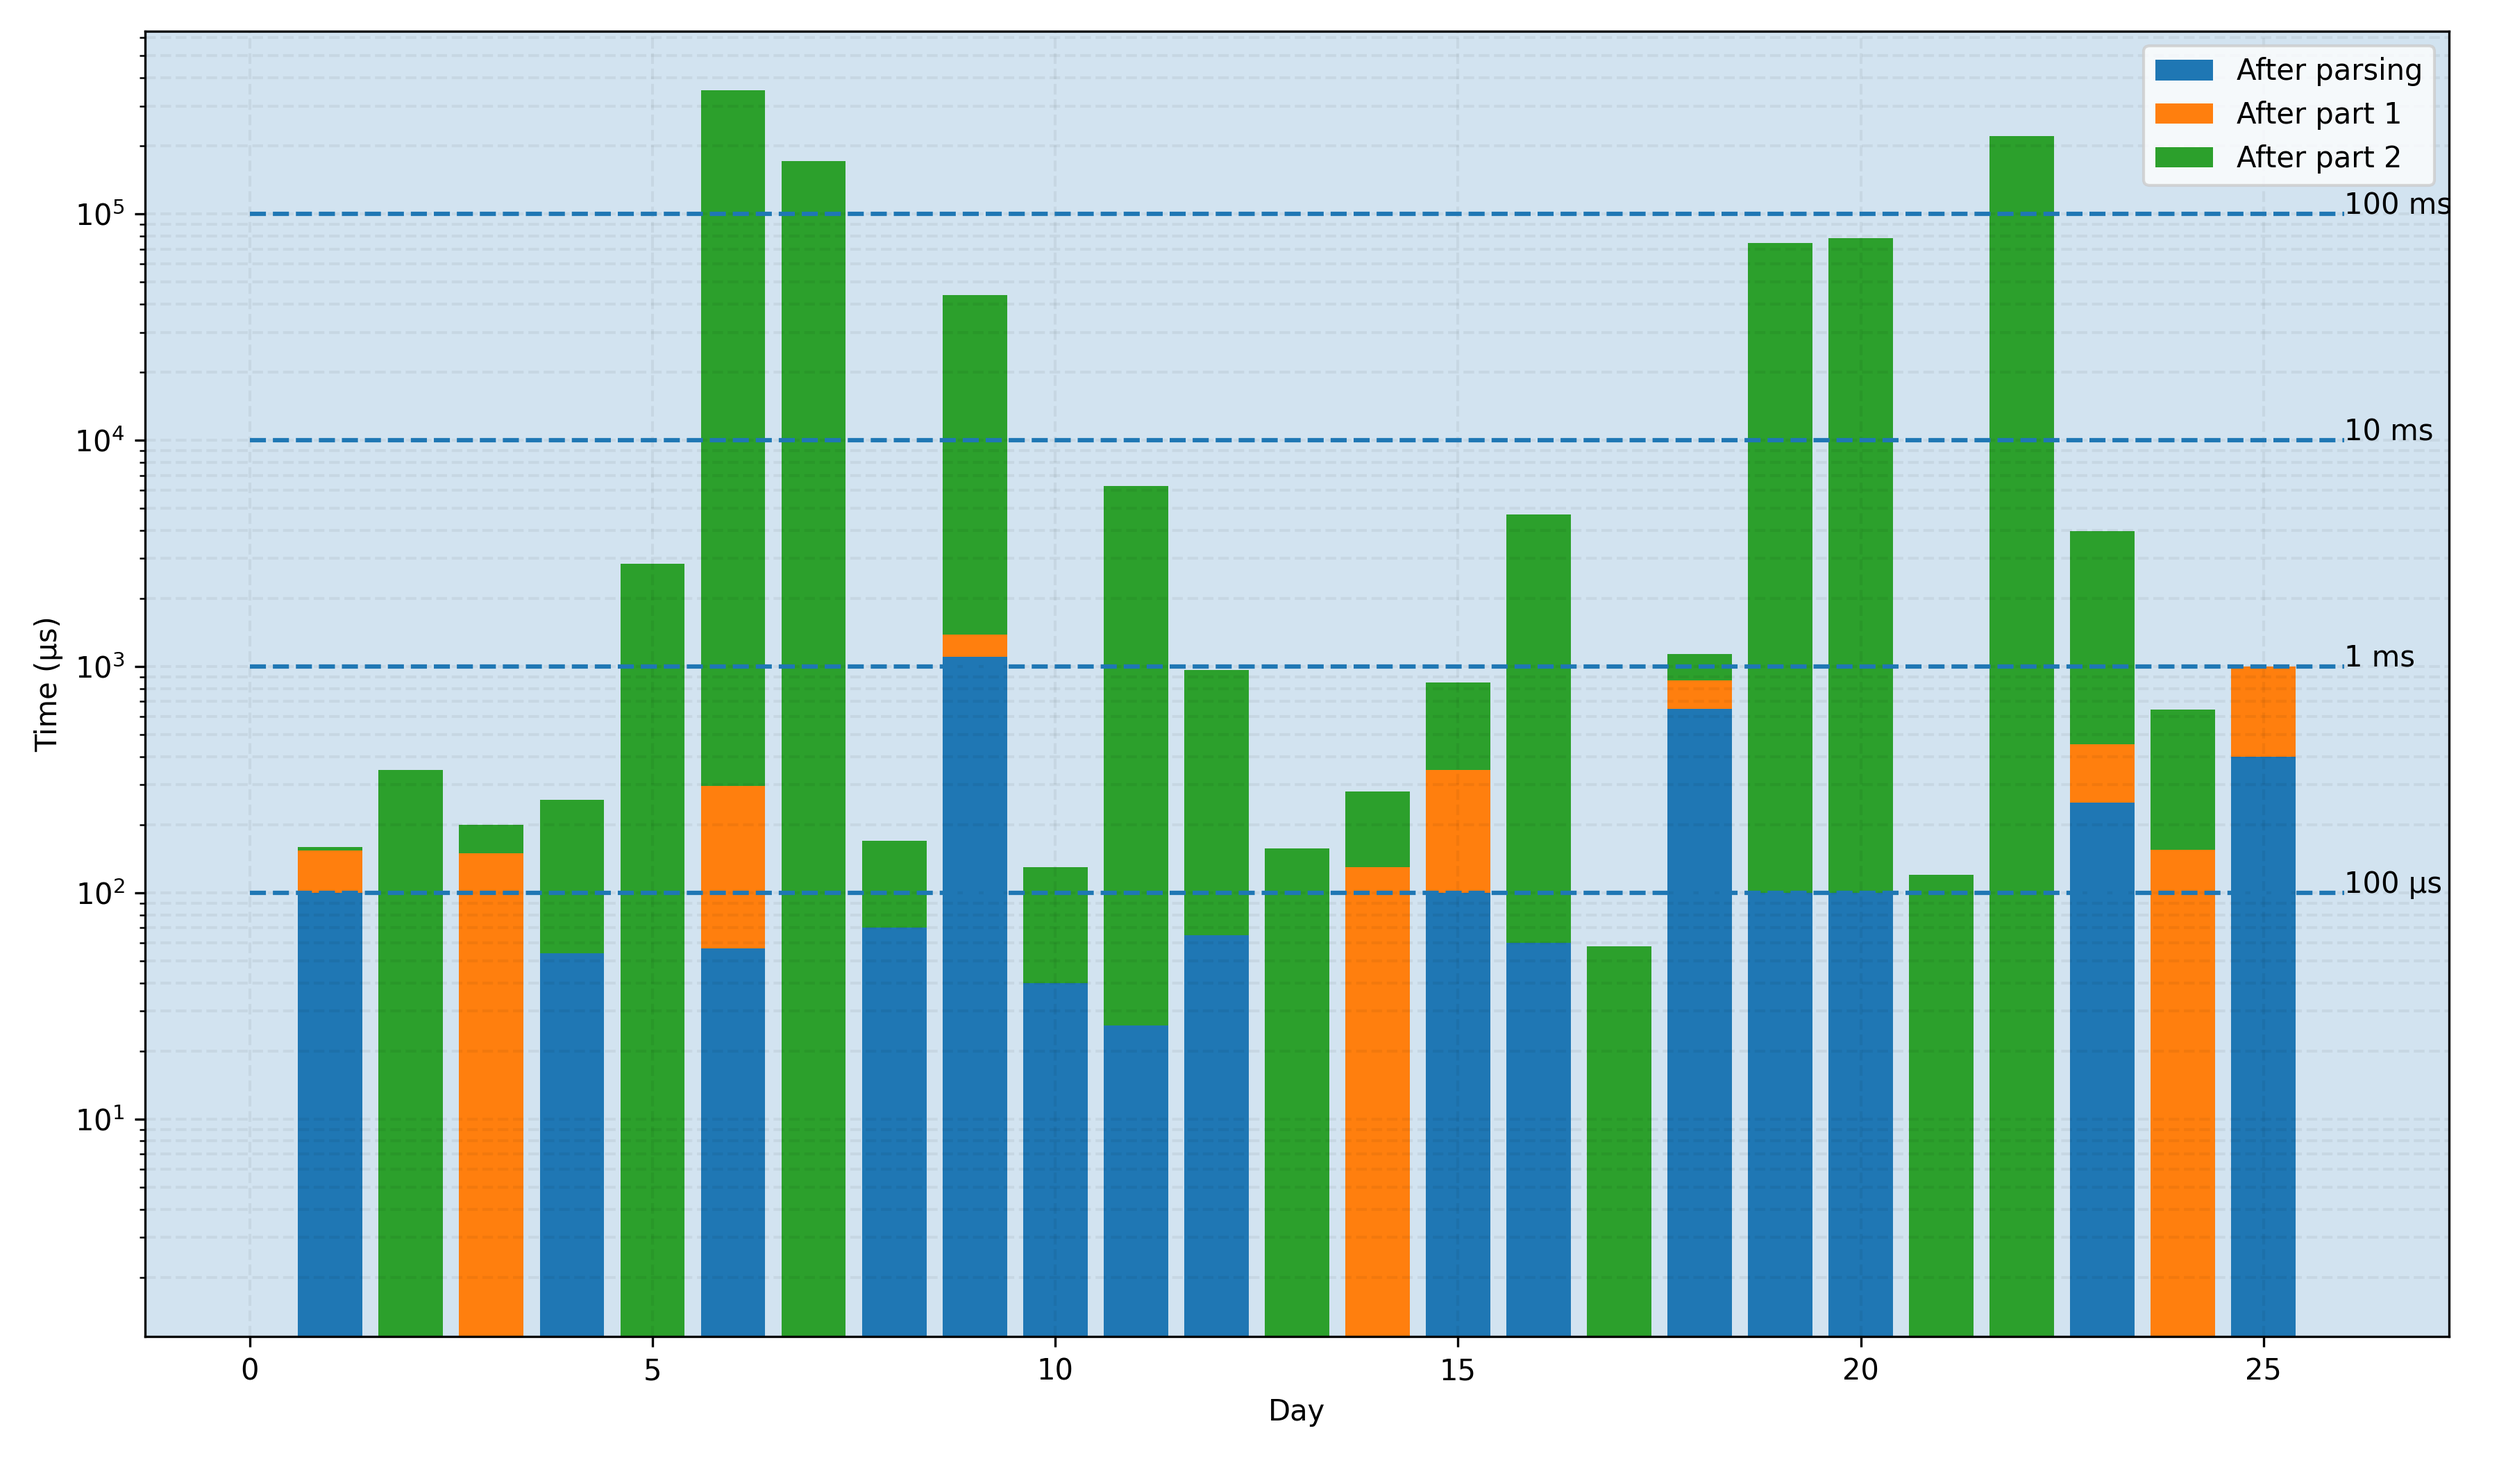
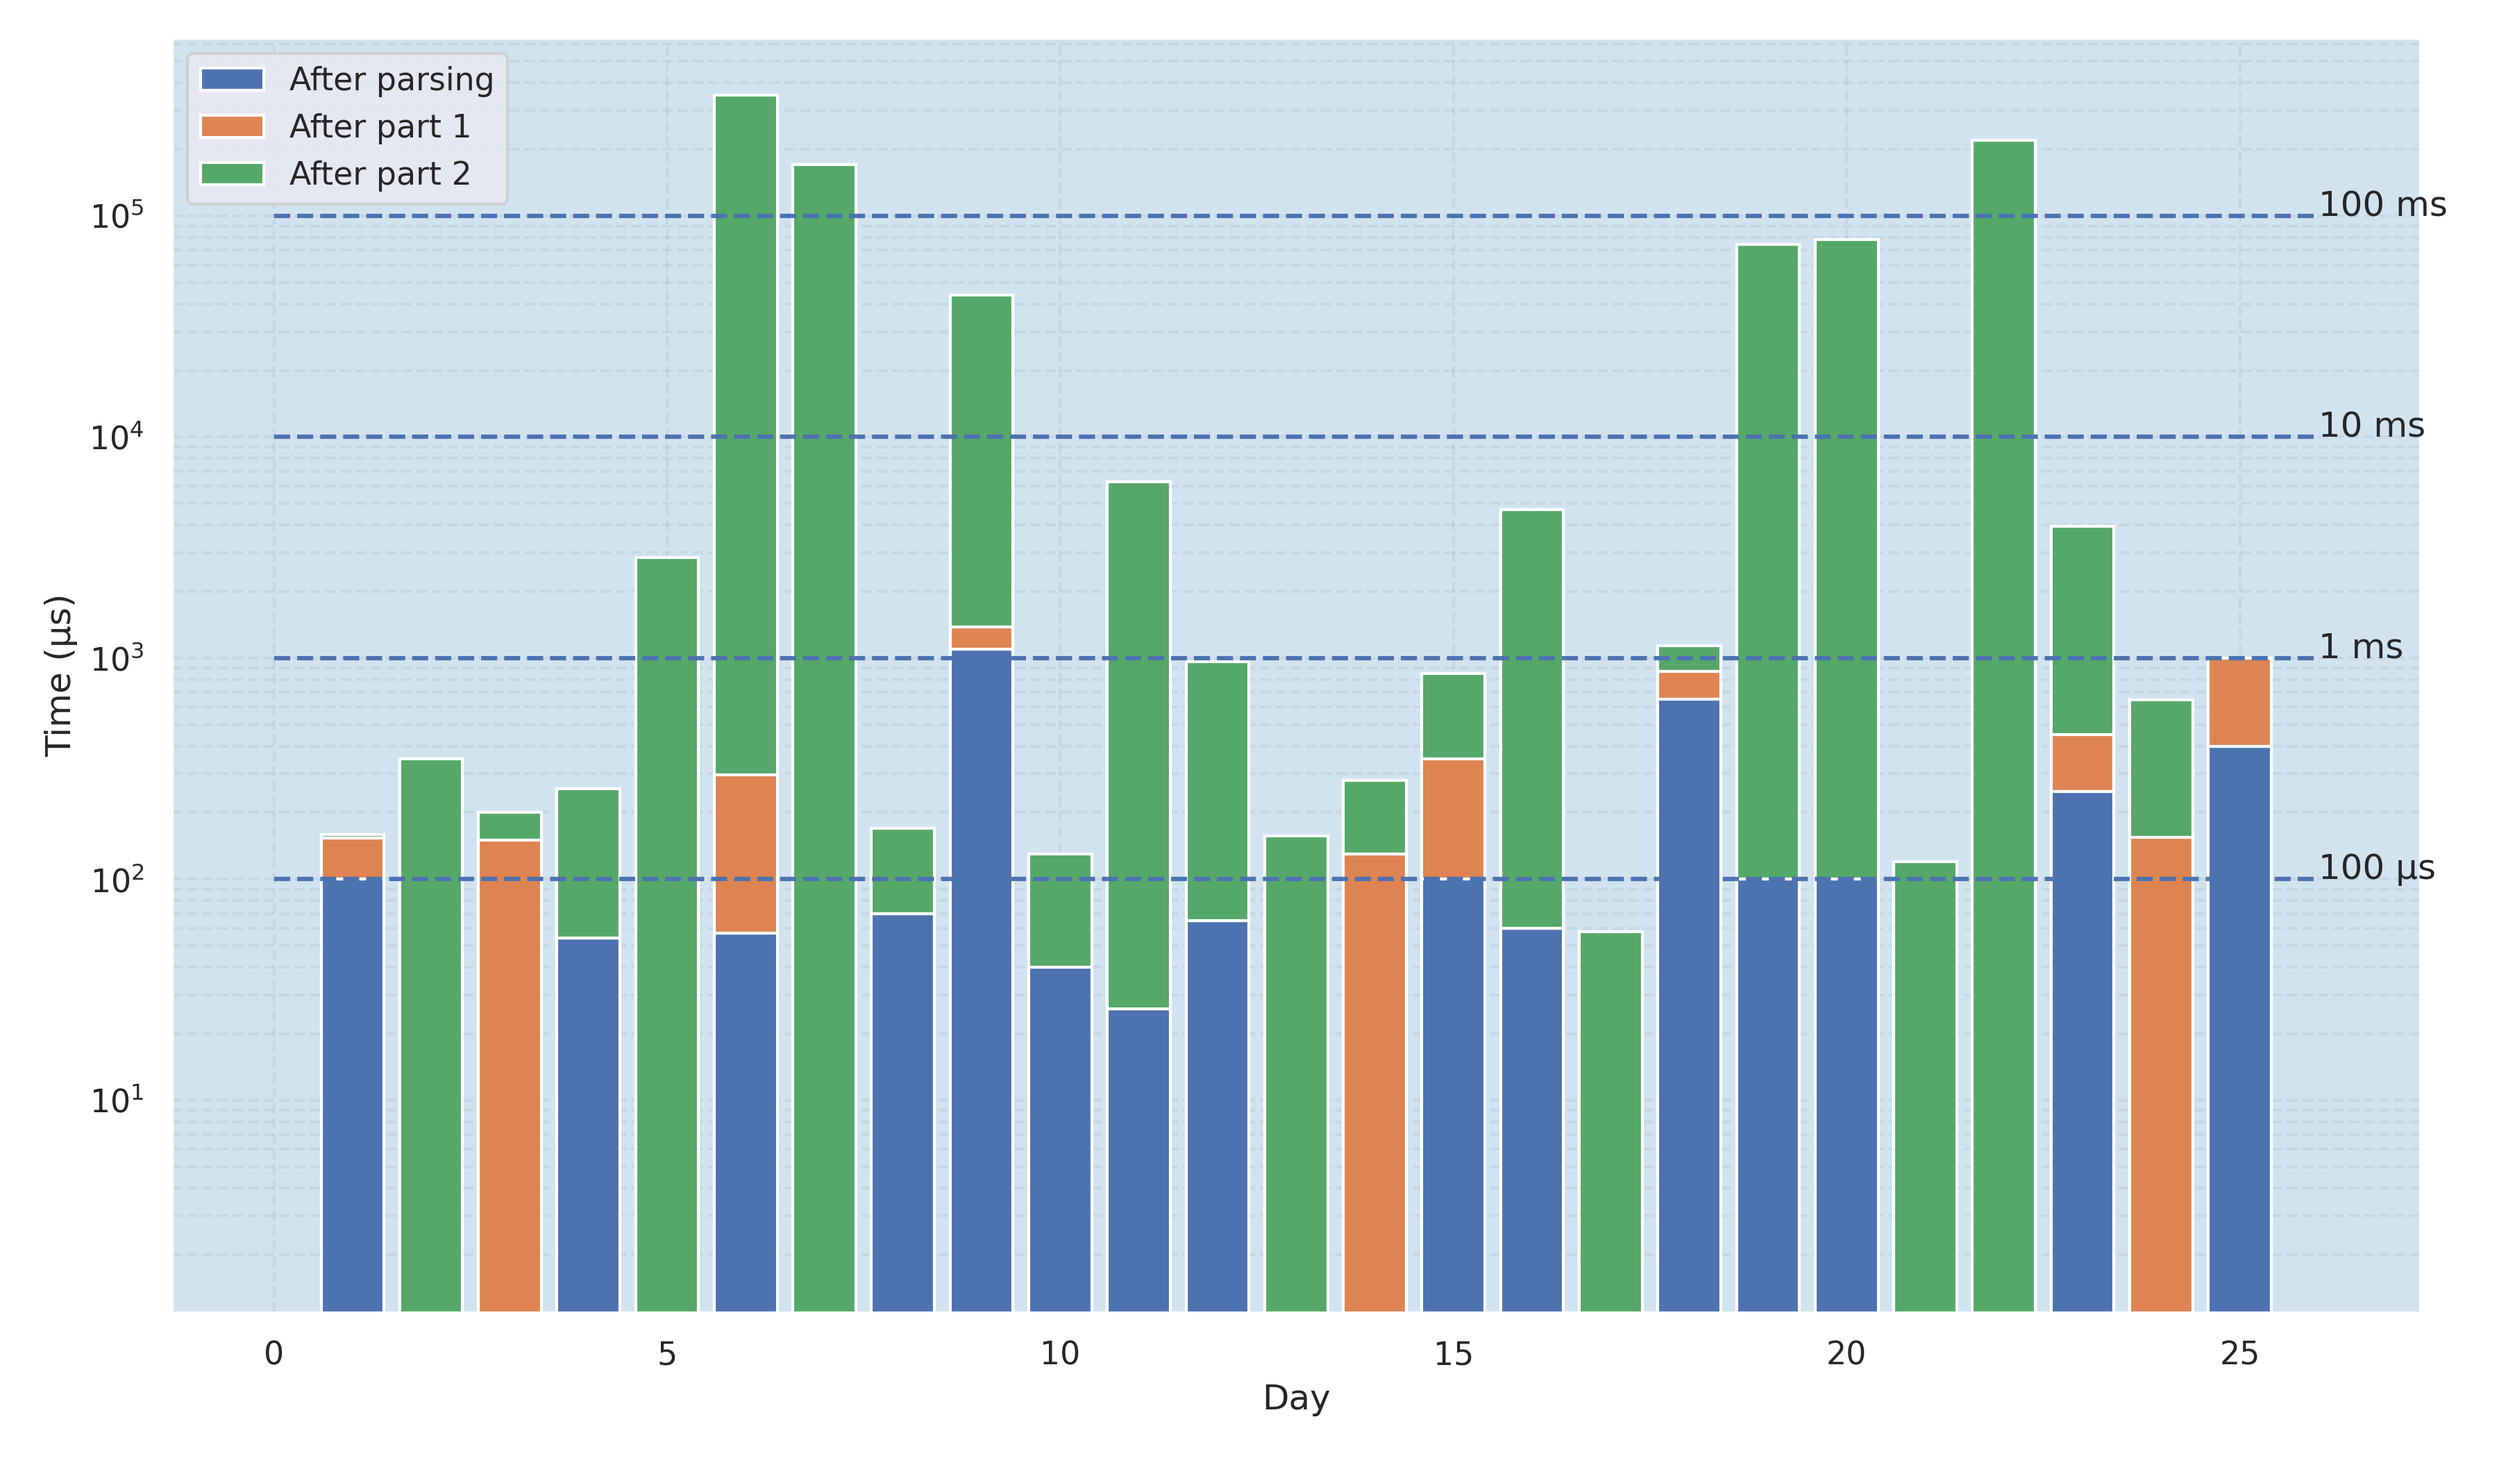
update style

diff --git a/times.py b/times.py
@@ -1,6 +1,8 @@
 #!/bin/python
 import numpy as np
 import matplotlib.pyplot as plt
+import seaborn as sbn
+sbn.set_theme()
 
 # collected averaged times for each day:
 times = [
